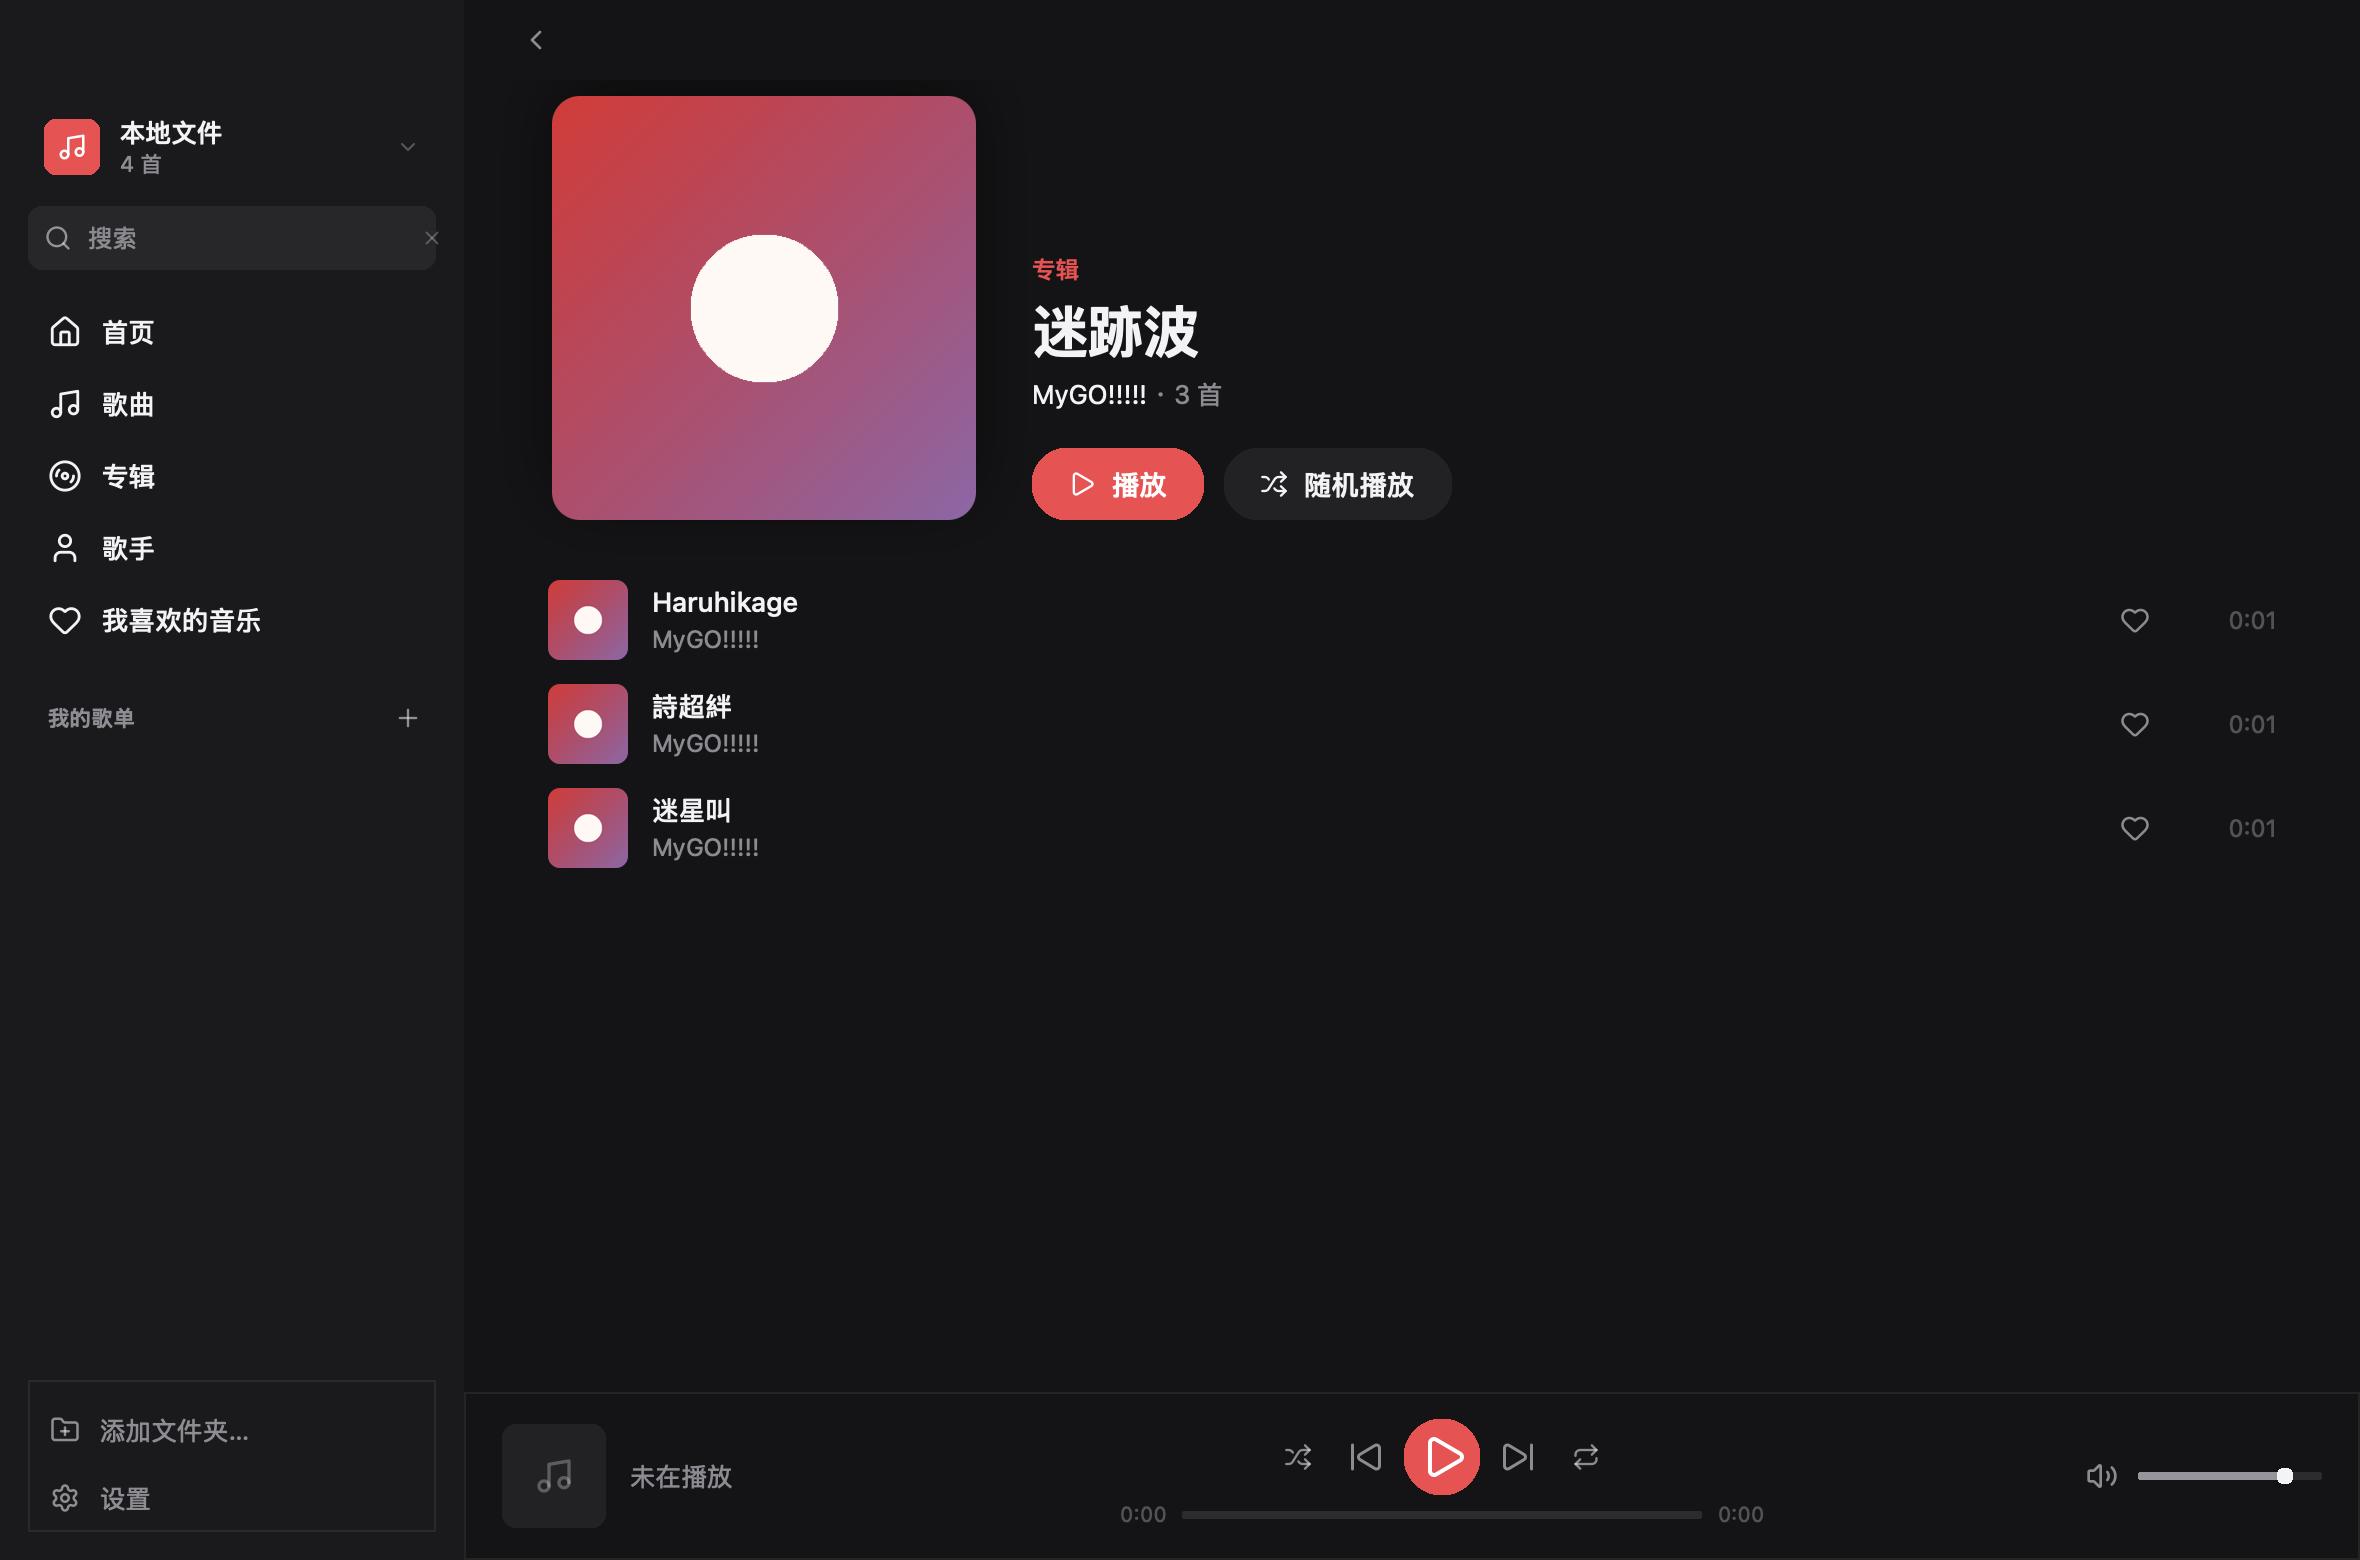
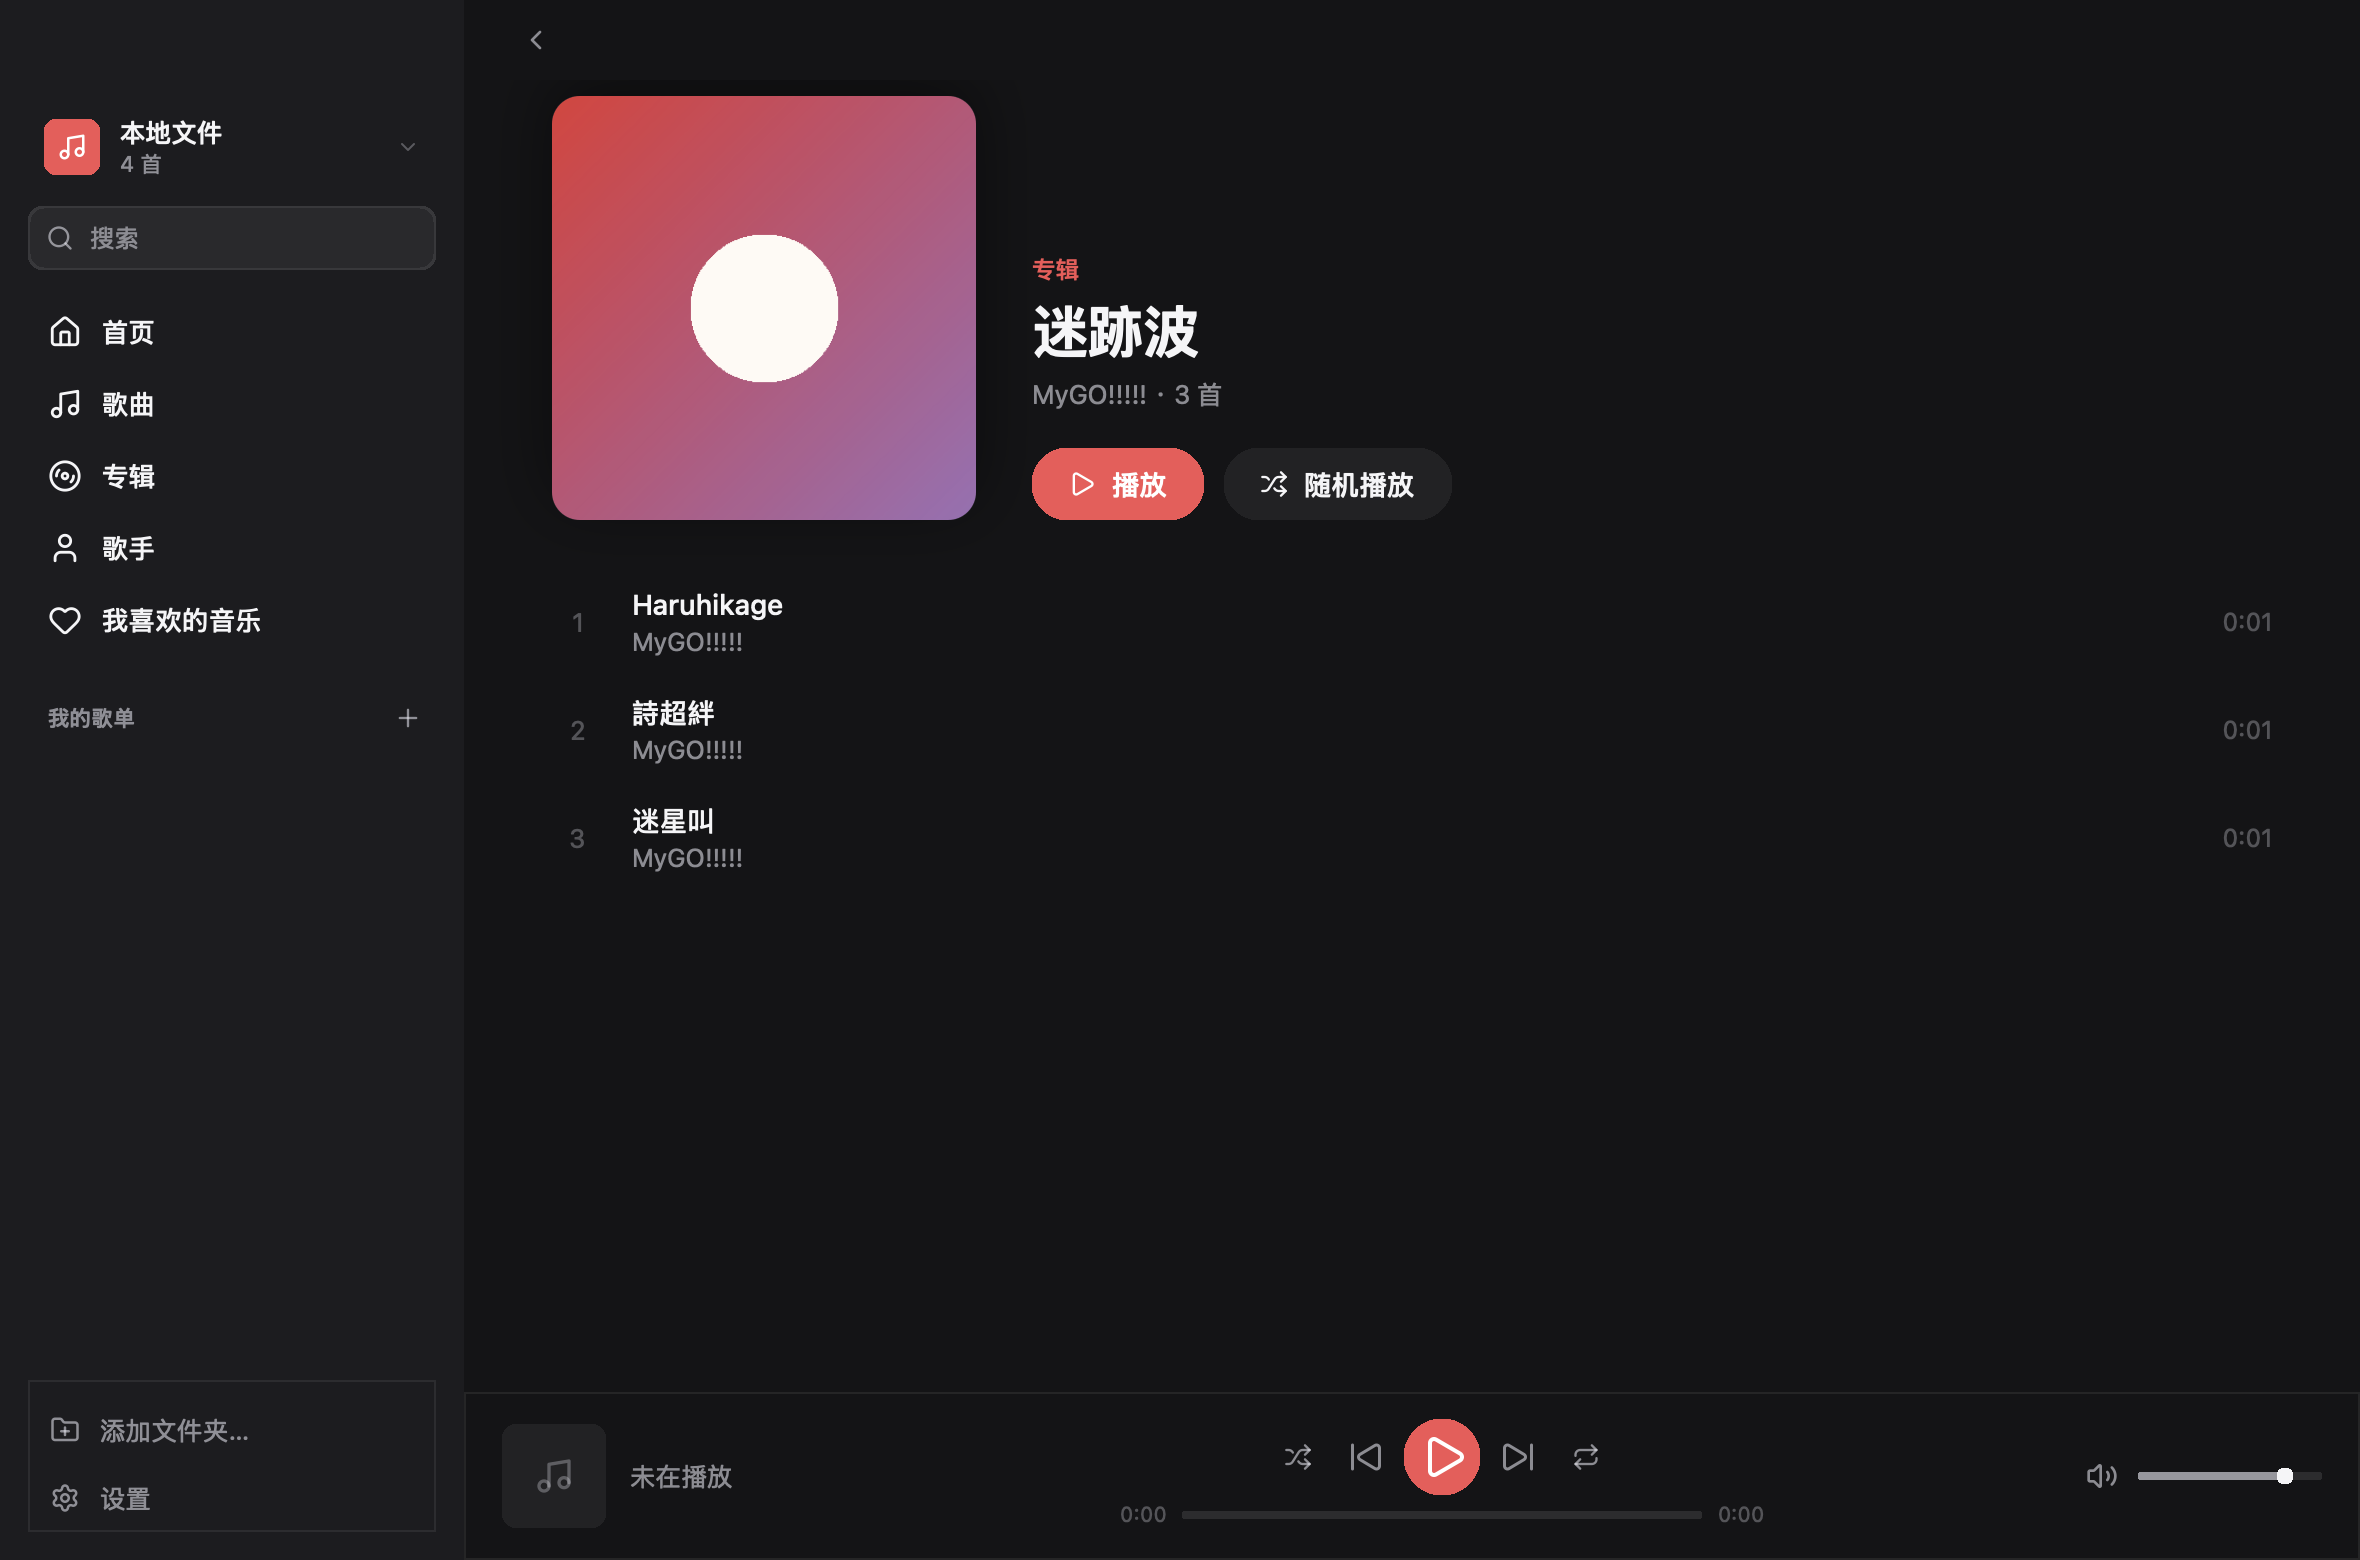
fix(app): match the album page to MyGo Music
Album tracks no longer repeat the album cover, artist credits are muted until hover, and track rows now reveal the play button and heart only under the pointer, as upstream does.

diff --git a/internal/app/kit.go b/internal/app/kit.go
@@ -7,6 +7,7 @@ import (
 	"github.com/oneo-me/nsgo/base"
 	"github.com/oneo-me/nsgo/core"
 	"github.com/oneo-me/nsgo/icons/lucide"
+	"github.com/oneo-me/nsgo/ui"
 
 	"nsgo-music/internal/i18n"
 	"nsgo-music/internal/music"
@@ -175,6 +176,10 @@ func clock(d time.Duration) string {
 	return fmt.Sprintf("%d:%02d", s/60, s%60)
 }
 
+// trackRowGroup is the style group of a track's row, which the row's own
+// hover shows its play button and heart by, as Music does.
+const trackRowGroup = "track-row"
+
 // trackRow is a row of a track list: its number, cover, title, artist, album
 // and length.
 func (a *app) trackRow(p palette, tracks []music.Track, i int, showCover bool, showAlbum bool, playing bool, _ bool) core.Node {
@@ -188,20 +193,46 @@ func (a *app) trackRow(p palette, tracks []music.Track, i int, showCover bool, s
 	row := base.Button{Label: tr.Name, TestID: "track-" + tr.ID, OnPress: func(core.PressEvent) { a.playTracks(tracks, i) },
 		StyleFunc: func() core.Style {
 			s := core.Style{Height: core.Pt(54), Direction: core.Row, AlignItems: core.AlignCenter, Gap: 14,
-				Padding: core.Symmetric(4, 12), CornerRadius: 10, Color: p.text,
-				Hover: &core.Style{Background: p.sidebar}}
+				Padding: core.Symmetric(4, 12), CornerRadius: 10, Color: p.text, Group: trackRowGroup,
+				Hover: &core.Style{Background: p.hover}}
 			a.playRev.Get()
 			if isCurrent() {
-				s.Background = p.hover
+				// The song playing keeps its tint, under the pointer too.
+				s.Background = ui.Alpha(p.accent, 0.09)
+				s.Hover = &core.Style{Background: s.Background}
+			}
+			if tr.Unavailable {
+				s.Opacity = core.Alpha(0.42)
 			}
 			return s
 		}}
-	// The number says where it is in the list, or the bars of the song
-	// playing, as a song's row does in Music.
+	// The number says where it is in the list, or, under the pointer, a play
+	// button; the song playing shows the bars of its sound instead.
+	number := func() core.Style {
+		a.playRev.Get()
+		hovered := core.DisplayNone
+		if isCurrent() {
+			hovered = core.DisplayFlex
+		}
+		return core.Style{Display: core.DisplayFlex,
+			GroupStyle: &core.GroupStyle{Name: trackRowGroup, Hover: &core.Style{Display: hovered}}}
+	}
+	play := func() core.Style {
+		a.playRev.Get()
+		hovered := core.DisplayFlex
+		if isCurrent() {
+			hovered = core.DisplayNone
+		}
+		return core.Style{Display: core.DisplayNone,
+			GroupStyle: &core.GroupStyle{Name: trackRowGroup, Hover: &core.Style{Display: hovered}}}
+	}
 	children := []core.Node{core.View{Style: core.Style{Width: core.Pt(26), Direction: core.Row, AlignItems: core.AlignCenter,
-		JustifyContent: core.JustifyCenter}, Children: []core.Node{core.Show{When: func() bool { a.playRev.Get(); return isCurrent() },
-		Then: func(*core.Scope) core.Node { return icon(lucideVolume, 14, p.accent) },
-		Else: func(*core.Scope) core.Node { return text(fmt.Sprint(i+1), 13, core.FontWeightNormal, p.faint) }}}}}
+		JustifyContent: core.JustifyCenter}, Children: []core.Node{
+		core.View{StyleFunc: number, Children: []core.Node{core.Show{When: func() bool { a.playRev.Get(); return isCurrent() },
+			Then: func(*core.Scope) core.Node { return icon(lucideVolume, 14, p.accent) },
+			Else: func(*core.Scope) core.Node { return text(fmt.Sprint(i+1), 13, core.FontWeightNormal, p.faint) }}}},
+		core.View{StyleFunc: play, Children: []core.Node{icon(lucidePlay, 13, p.text)}},
+	}}}
 	if showCover {
 		children = append(children, core.View{Style: core.Style{Width: core.Pt(40), FlexShrink: 0}, Children: []core.Node{a.cover(p, tr.Album.ImageURL, 40, 6)}})
 	}
@@ -212,15 +243,25 @@ func (a *app) trackRow(p palette, tracks []music.Track, i int, showCover bool, s
 			if isCurrent() {
 				c = p.accent
 			}
-			return core.Style{FontSize: 13.5, FontWeight: core.FontWeightMedium, Color: c}
+			return core.Style{FontSize: 14, FontWeight: core.FontWeightMedium, Color: c}
 		}},
-		a.artistLine(p, tr, 12, p.muted),
+		a.artistLine(p, tr, 12.5, p.muted),
 	}})
 	if showAlbum {
 		children = append(children, core.Text{Content: tr.Album.Name, MaxLines: 1, Style: core.Style{Width: core.Pct(26), FontSize: 12.5, Color: p.muted}})
 	}
-	children = append(children, a.likeButton(p, tr.ID, 15, p.muted))
-	children = append(children, core.Text{Content: clock(tr.Length()), Style: core.Style{Width: core.Pt(44), TextAlign: core.TextAlignEnd, FontSize: 12, Color: p.faint}})
+	// A liked song's heart shows; the others' as the pointer is on them,
+	// in a cell the row keeps whether or not it shows, as Music does.
+	heart := core.DisplayNone
+	if a.likedSet[tr.ID] {
+		heart = core.DisplayFlex
+	}
+	children = append(children, core.View{Style: core.Style{Width: core.Pt(32), Height: core.Pt(32), Direction: core.Row,
+		AlignItems: core.AlignCenter, JustifyContent: core.JustifyCenter}, Children: []core.Node{
+		core.View{Style: core.Style{Display: heart,
+			GroupStyle: &core.GroupStyle{Name: trackRowGroup, Hover: &core.Style{Display: core.DisplayFlex}}},
+			Children: []core.Node{a.likeButton(p, tr.ID, 15, p.muted)}}}})
+	children = append(children, core.Text{Content: clock(tr.Length()), Style: core.Style{Width: core.Pt(44), TextAlign: core.TextAlignEnd, FontSize: 12.5, Color: p.faint}})
 	row.Children = children
 	return row
 }

diff --git a/internal/app/ui_pages.go b/internal/app/ui_pages.go
@@ -229,7 +229,7 @@ func (a *app) sectionPage(cx *core.Scope, p palette, r route) core.Node {
 	sub := core.Text{Content: about, Style: core.Style{FontSize: 13, Color: p.muted}}
 	return a.pageScroll(p,
 		a.heroNode(p, pic, i18n.Today(now), title, sub, tracks),
-		a.trackList(p, tracks, true, a.currentID()),
+		a.trackList(p, tracks, true, true, a.currentID()),
 	)
 }
 
@@ -351,13 +351,13 @@ func artistsOf(list []music.Artist) string {
 
 // trackList is tracks as rows that play, in a page that scrolls with its
 // heading.
-func (a *app) trackList(p palette, tracks []music.Track, showAlbum bool, current string) core.Node {
+func (a *app) trackList(p palette, tracks []music.Track, covers, showAlbum bool, current string) core.Node {
 	return core.List{Count: func() int { return len(tracks) }, Key: func(i int) any { return tracks[i].ID },
 		EstimatedSize: 54, Viewport: core.ListViewportParent,
 		Row: func(cx *core.Scope, row core.ListRow) core.Node {
 			i := row.Index()
 			tr := tracks[i]
-			r := a.trackRow(p, tracks, i, true, showAlbum, false, current == tr.ID)
+			r := a.trackRow(p, tracks, i, covers, showAlbum, false, current == tr.ID)
 			return ui.ContextMenu{Trigger: r, Children: a.trackMenu(tr, "", -1)}
 		}}
 }
@@ -494,7 +494,7 @@ func (a *app) likedPage(cx *core.Scope, p palette) core.Node {
 		Direction: core.Row, AlignItems: core.AlignCenter, JustifyContent: core.JustifyCenter}, Children: []core.Node{icon(lucideHeart, 64, p.onAccent)}}
 	return a.pageScroll(p,
 		a.hero(p, pic, i18n.T("Playlist"), i18n.T("Liked Songs"), i18n.Songs(len(tracks)), tracks),
-		a.trackList(p, tracks, false, a.currentID()),
+		a.trackList(p, tracks, true, false, a.currentID()),
 	)
 }
 
@@ -555,9 +555,12 @@ func (a *app) albumPage(cx *core.Scope, p palette, id string) core.Node {
 		if i > 0 {
 			spans = append(spans, core.Span{Content: ", "})
 		}
-		id := ar.ID
-		spans = append(spans, core.Span{Content: ar.Name, Style: core.Style{Color: p.text},
-			OnPress: func(core.PressEvent) { a.open(route{page: pageArtist, id: id}) }})
+		span := core.Span{Content: ar.Name, Style: core.Style{Color: p.muted, Hover: &core.Style{Color: p.text}}}
+		if ar.ID != "" {
+			id := ar.ID
+			span.OnPress = func(core.PressEvent) { a.open(route{page: pageArtist, id: id}) }
+		}
+		spans = append(spans, span)
 	}
 	var meta []string
 	if al.Released != "" {
@@ -571,7 +574,7 @@ func (a *app) albumPage(cx *core.Scope, p palette, id string) core.Node {
 	sub := core.Text{Spans: spans, Style: core.Style{FontSize: 13, Color: p.muted}}
 	return a.pageScroll(p,
 		a.heroNode(p, a.cover(p, al.ImageURL, 212, 14), i18n.T("Album"), al.Name, sub, tracks),
-		a.trackList(p, tracks, false, a.currentID()),
+		a.trackList(p, tracks, false, false, a.currentID()),
 	)
 }
 
@@ -669,7 +672,7 @@ func (a *app) artistPage(cx *core.Scope, p palette, id string) core.Node {
 	if tab == 1 {
 		body = append(body, a.cardGrid(p, w, 168, len(page.Albums), func(i int) core.Node { return a.albumCard(p, page.Albums[i], 168) }))
 	} else {
-		body = append(body, a.trackList(p, page.Tracks, true, a.currentID()))
+		body = append(body, a.trackList(p, page.Tracks, true, true, a.currentID()))
 	}
 	return a.pageScroll(p, body...)
 }
@@ -718,7 +721,7 @@ func (a *app) searchPage(cx *core.Scope, p palette, r route) core.Node {
 		if len(d.res.Tracks) == 0 {
 			body = append(body, a.emptyNote(p, i18n.T("No songs found"), i18n.T("Try another search.")))
 		} else {
-			body = append(body, a.trackList(p, d.res.Tracks, true, a.currentID()))
+			body = append(body, a.trackList(p, d.res.Tracks, true, true, a.currentID()))
 		}
 	case music.SearchAlbums:
 		if len(d.res.Albums) == 0 {
